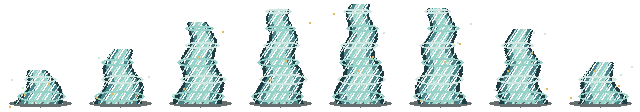
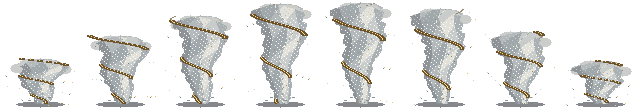
Redraw whirlwind as rotating funnel with depth

diff --git a/tools/gen_card_sequence_vfx.py b/tools/gen_card_sequence_vfx.py
@@ -43,33 +43,80 @@ GREEN = (102, 169, 87, 255)
 
 
 def whirlwind(im: Image.Image, frame: int) -> None:
-    height = (34, 55, 82, 95, 100, 96, 75, 42)[frame]
+    height = (45, 68, 88, 100, 101, 95, 72, 43)[frame]
     bottom = 104
-    ellipse(im, 40, 103, 31, 4, (25, 37, 40, 170))
+    phase = frame * .82
+    ellipse(im, 40, 104, 24, 3, (26, 29, 34, 135))
+
+    def section(y: int) -> tuple[float, float, float, float]:
+        t = (bottom - y) / height
+        center = 40 + math.sin(t * 10 + phase * .45) * (2 + 3 * t)
+        radius = 6 + 24 * (t ** .87)
+        angle = t * math.tau * 2.35 + phase
+        return t, center, radius, angle
+
+    crown_y = bottom - height
+    ellipse(im, 40, crown_y + 6, 23, 7, (118, 125, 127, 140))
+    for x, dy, radius in ((19, 9, 9), (30, 4, 11), (47, 5, 12), (62, 10, 9)):
+        ellipse(im, x, crown_y + dy, radius, 5, (169, 172, 167, 155))
+
+    # The rear half of one continuous helix is dim and partly hidden by wind.
     for y in range(bottom - height, bottom):
-        t = (bottom - y) / max(1, height)
-        radius = 24 - int(t * 15)
-        center = 40 + round(math.sin(y * .16 + frame * .65) * 3)
-        for x in range(center - radius, center + radius + 1):
-            nx = abs(x - center) / max(1, radius)
-            if nx > 1:
+        _, center, radius, angle = section(y)
+        if math.sin(angle) < .05:
+            x = round(center + radius * .88 * math.cos(angle))
+            box(im, x - 1, y, x + 1, y + 1, (111, 89, 52, 180))
+
+    # A ragged shaded volume, lit from the upper right. Small holes read as air,
+    # unlike the old uniform white lattice that covered the full silhouette.
+    for y in range(bottom - height, bottom):
+        t, center, radius, angle = section(y)
+        for x in range(math.floor(center - radius - 1), math.ceil(center + radius + 2)):
+            side = (x - center) / radius
+            edge = .92 + .065 * math.sin(y * .51 + x * .37 + phase)
+            if (abs(side) > edge or y < crown_y + 8 * abs(side) ** 1.3
+                    or (x * 7 + y * 11 + frame * 13) % 37 < 3):
                 continue
-            twist = (x * 3 + y * 2 + frame * 11) % 23
-            if 7 <= twist <= 11 and nx < .82:
-                continue  # transparent channel through the spinning body
-            color = WIND_DARK if nx > .82 else WIND if nx > .48 else WIND_LIGHT
-            if twist < 4:
-                color = PALE
+            sweep = math.sin(side * 4.1 - angle * 1.15)
+            if side < -.56:
+                color = (57, 67, 73, 147)
+            elif side < .12:
+                color = (102, 113, 118, 157) if sweep < .2 else (137, 145, 147, 161)
+            elif side < .65:
+                color = (172, 179, 177, 169) if sweep < .4 else (213, 213, 201, 177)
+            else:
+                color = (109, 123, 128, 151)
             put(im, x, y, color)
-    for ring_y in range(bottom - 8, bottom - height, -17):
-        t = (bottom - ring_y) / max(1, height)
-        radius = max(8, 27 - int(t * 15))
-        x = 40 + round(math.sin(ring_y * .16 + frame * .65) * 3)
-        ellipse_ring(im, x, ring_y, radius, max(3, radius // 4), 2, PALE if ring_y % 2 else WIND_LIGHT)
+        # A curved interior fold gives the cone a turning surface.
+        fold = round(center + radius * (.16 + .18 * math.sin(angle + .8)))
+        put(im, fold, y, (231, 230, 212, 224) if y % 5 < 3 else (131, 143, 145, 206))
+
+    # The near half of the golden ribbon moves across the cone as it rotates.
+    for y in range(bottom - height, bottom):
+        t, center, radius, angle = section(y)
+        if math.sin(angle) <= .05:
+            continue
+        x = round(center + radius * .88 * math.cos(angle))
+        width = 3 if t > .62 else 2
+        box(im, x - width, y - 1, x + width, y + 1, (103, 75, 37, 245))
+        box(im, x - width + 1, y, x + width - 1, y, (217, 174, 86, 255))
+        put(im, x - 1, y - 1, (250, 222, 137, 255))
+
+    # Wind torn off the base and the narrowing crown stays separate from the
+    # solid body, so the vortex keeps its silhouette over dark backgrounds.
+    for i in range(18):
+        direction = -1 if i % 2 else 1
+        distance = 8 + (i * 13 + frame * 7) % 28
+        x = 40 + direction * distance
+        y = 105 - (i * 17 + frame * 9) % max(12, height)
+        color = (203, 207, 193, 220) if i % 4 else (229, 189, 103, 240)
+        put(im, x, y, color)
+        if i % 3 == 0:
+            put(im, x - direction, y + 1, (91, 105, 108, 210))
     for i in range(7):
-        x = 9 + (i * 13 + frame * 7) % 63
-        y = 106 - (i * 19 + frame * 9) % max(1, height)
-        box(im, x, y, x + 2, y + 2, GOLD if i % 3 == 0 else PALE)
+        x = 20 + i * 6 + round(math.sin(phase + i) * 2)
+        y = 103 - (i % 3) * 3
+        box(im, x, y, x + 3, y + 1, (91, 105, 108, 185))
 
 
 def wind_arrow(im: Image.Image, frame: int) -> None:
